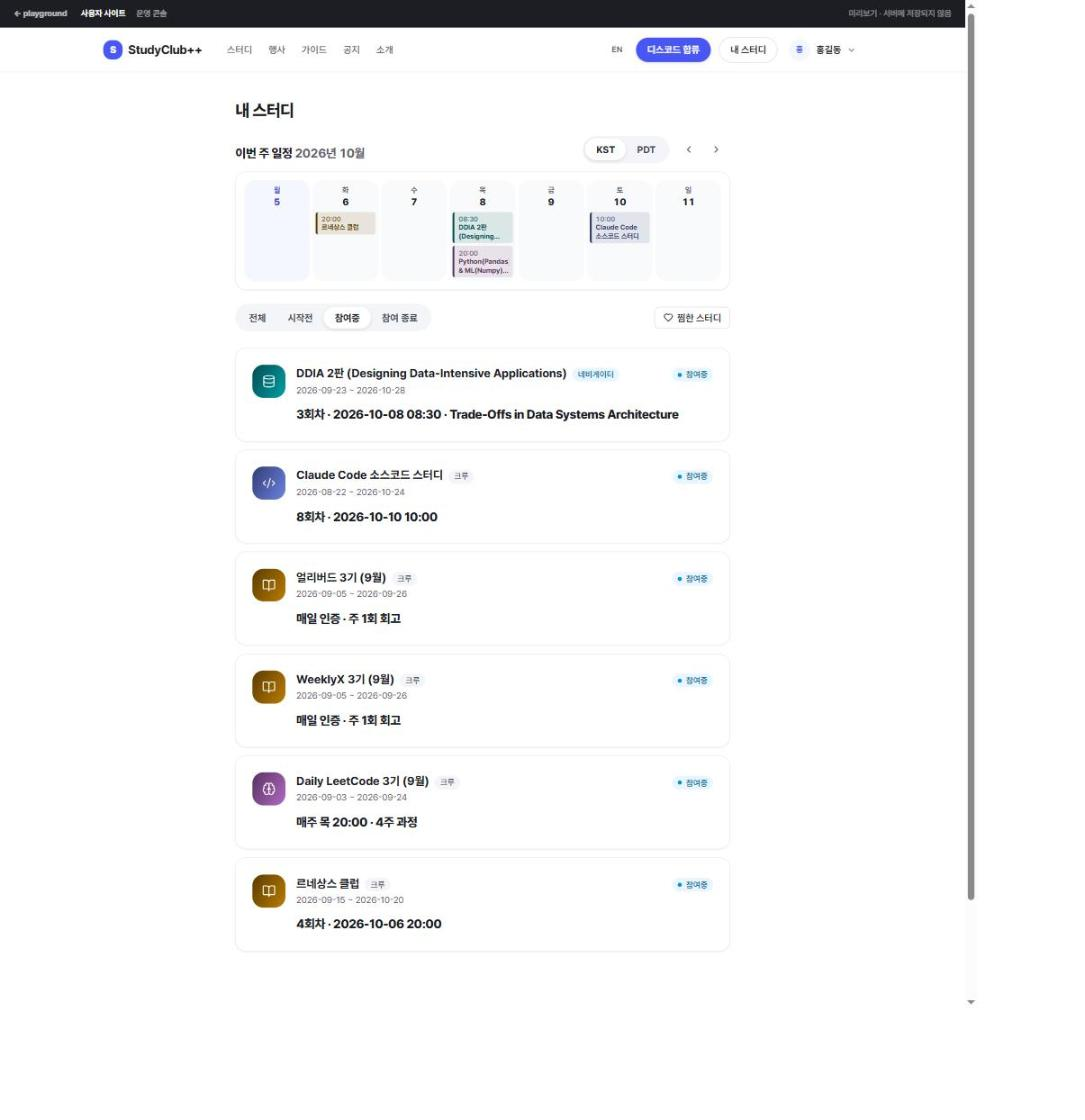
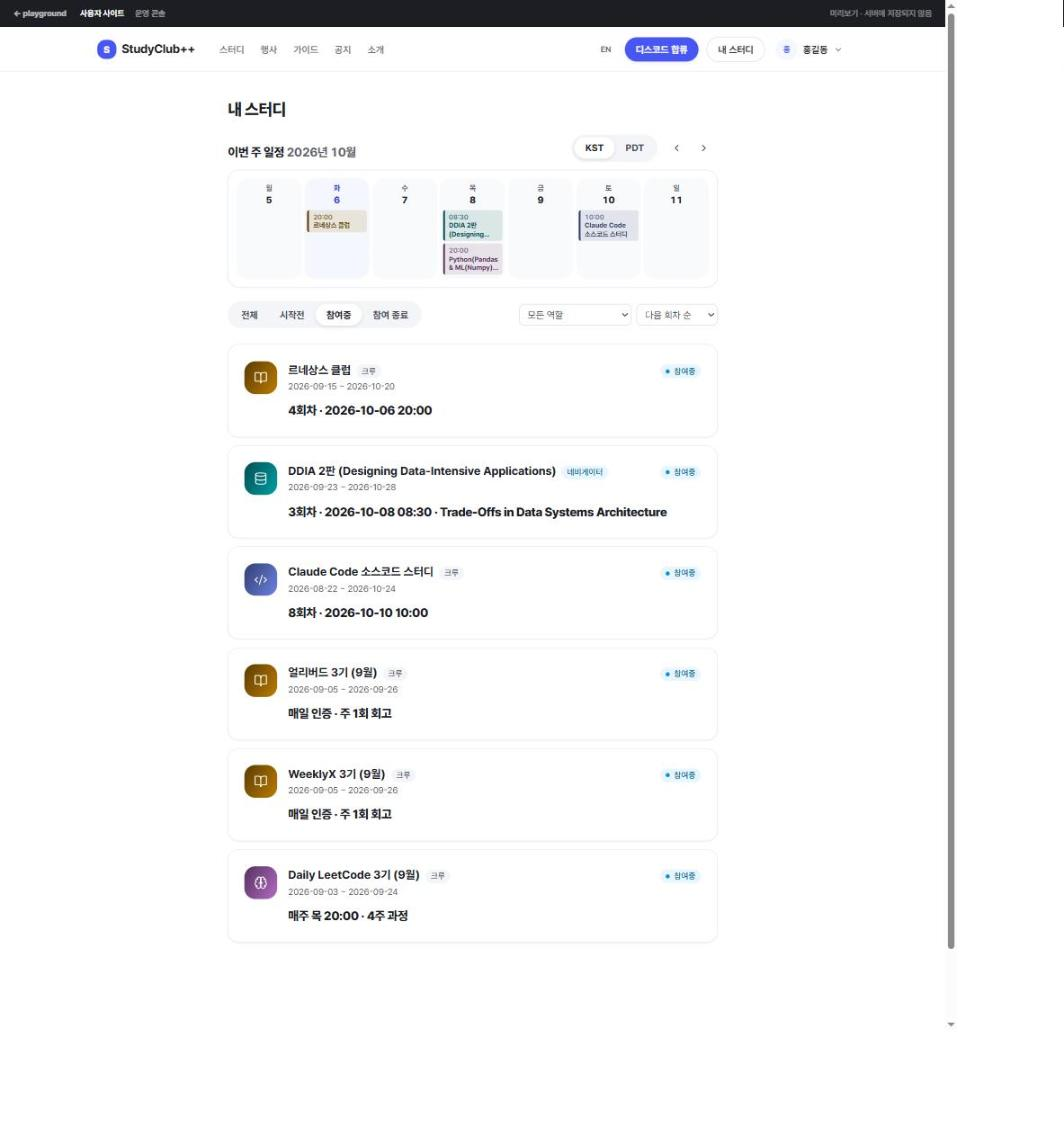
feat(playground): 스터디 일정 주소를 /my/joined/{id}/schedule 로, 역할 드롭다운, 캡처 갱신
- 라우트: /my/joined/{id}/manage/{schedule,attendance} → /my/joined/{id}/schedule (일정) · /schedule/attendance (출석부). 링크·옛 출석 기록 주소·명세 경로 갱신
- 내 스터디: 「내 담당만」 토글 대신 역할 드롭다운(모든 역할 · 운영 · 참여) — 정렬 옆, 운영하는 스터디가 있을 때만
- PRD 화면 캡처 3장 갱신(내 스터디 · 출석부 2장)

diff --git a/frontend/apps/playground/src/app/(proto)/proto/core/[locale]/my/joined/page.tsx b/frontend/apps/playground/src/app/(proto)/proto/core/[locale]/my/joined/page.tsx
@@ -80,6 +80,15 @@ const SORTS: { key: SortKey; label: string }[] = [
 
 const defaultSortOf = (filter: Filter): SortKey => (filter === 'ended' ? 'end' : 'next');
 
+/** 역할로 거르기 — 운영 = 캡틴(만든 캡틴)·네비게이터, 참여 = 크루. */
+type RoleFilter = 'all' | 'manage' | 'join';
+
+const ROLE_FILTERS: { key: RoleFilter; label: string }[] = [
+  { key: 'all', label: '모든 역할' },
+  { key: 'manage', label: '운영 (캡틴·네비게이터)' },
+  { key: 'join', label: '참여 (크루)' },
+];
+
 /** 내가 캡틴(그 스터디를 만든 캡틴)이나 네비게이터로 맡은 스터디. */
 const isMine = (study: Study) => manageAccessOf(study.id) !== undefined;
 
@@ -93,11 +102,13 @@ function studiesIn(
   mine: Study[],
   filter: Filter,
   sort: SortKey,
-  mineOnly: boolean,
+  role: RoleFilter,
   wallTz: WallTz,
   locale: Locale,
 ): Study[] {
-  const list = mine.filter((s) => filter === 'all' || lifeStatus(s) === filter).filter((s) => !mineOnly || isMine(s));
+  const list = mine
+    .filter((s) => filter === 'all' || lifeStatus(s) === filter)
+    .filter((s) => role === 'all' || (role === 'manage') === isMine(s));
   // 다음 회차가 없는 스터디(참여 종료 등)는 다음 회차 순에서 맨 뒤로 간다.
   const nextAt = (s: Study) => {
     const m = upcomingMeeting(s, wallTz);
@@ -123,7 +134,7 @@ function weekRangeLabel(days: WeekDay[]): string {
 
 /** 내 스터디에서 들어가는 스터디 일정. 주소 값은 study_id(STUDY.ID). */
 function schedulePath(locale: Locale, study: Study): string {
-  return `/proto/core/${locale}/my/joined/${study.study_id}/manage/schedule`;
+  return `/proto/core/${locale}/my/joined/${study.study_id}/schedule`;
 }
 
 function weekChip(category: string | undefined): { accent: string; tint: number } {
@@ -285,8 +296,7 @@ export default function MyJoinedPage() {
   const [mineIds, setMineIds] = useState<string[]>([]);
   const [filter, setFilter] = useState<Filter>('active');
   const [sort, setSort] = useState<SortKey>(defaultSortOf('active'));
-  /** 내 담당만 — 캡틴·네비게이터로 맡은 스터디만 남긴다. */
-  const [mineOnly, setMineOnly] = useState(false);
+  const [role, setRole] = useState<RoleFilter>('all');
   const [page, setPage] = useState(1);
   const [wallTz, setWallTz] = useState<WallTz>('KST');
   const [weekStart, setWeekStart] = useState(() => mondayOf(ymdInTz(new Date(), 'KST')));
@@ -318,10 +328,10 @@ export default function MyJoinedPage() {
   const thisWeek = weekStart === mondayOf(ymdInTz(new Date(), wallTz));
 
   const shown = useMemo(
-    () => studiesIn(mine, filter, sort, mineOnly, wallTz, locale),
-    [filter, mine, sort, mineOnly, wallTz, locale],
+    () => studiesIn(mine, filter, sort, role, wallTz, locale),
+    [filter, mine, sort, role, wallTz, locale],
   );
-  // 맡은 스터디가 하나도 없으면(대부분의 크루) 토글을 두지 않는다 — 눌러도 빈 목록뿐이다.
+  // 맡은 스터디가 하나도 없으면(대부분의 크루) 역할 거르기를 두지 않는다 — 어느 값이든 같은 목록이다.
   const hasMine = mine.some(isMine);
 
   const pages = Math.max(1, Math.ceil(shown.length / PAGE_SIZE));
@@ -343,9 +353,12 @@ export default function MyJoinedPage() {
     return <div className='px-6 py-16 text-center text-sm text-fg-secondary'>불러오는 중…</div>;
   }
 
-  const empty = mineOnly
-    ? { title: '맡은 스터디가 없습니다', description: '이 탭에는 캡틴이나 네비게이터로 맡은 스터디가 없습니다.' }
-    : EMPTY[filter];
+  const empty =
+    role === 'manage'
+      ? { title: '운영하는 스터디가 없습니다', description: '이 탭에는 캡틴이나 네비게이터로 맡은 스터디가 없습니다.' }
+      : role === 'join'
+        ? { title: '크루로 참여한 스터디가 없습니다', description: '이 탭에는 크루로 참여한 스터디가 없습니다.' }
+        : EMPTY[filter];
 
   return (
     <div className='mx-auto max-w-3xl px-6 pb-16 pt-10'>
@@ -370,23 +383,22 @@ export default function MyJoinedPage() {
         <SegmentTabs anno='2' value={filter} options={FILTERS} onChange={changeFilter} />
         <div className='ml-auto flex flex-wrap items-center gap-2'>
           {hasMine && (
-            <button
-              type='button'
+            <select
               data-anno='2-2'
-              aria-pressed={mineOnly}
-              onClick={() => {
-                setMineOnly((v) => !v);
+              aria-label='역할'
+              value={role}
+              onChange={(ev) => {
+                setRole(ev.target.value as RoleFilter);
                 setPage(1);
               }}
-              className={cx(
-                'h-8 rounded-pill border px-3 text-sm font-semibold transition-colors',
-                mineOnly
-                  ? 'border-brand bg-brand-subtle text-brand'
-                  : 'border-border-strong text-fg-secondary hover:bg-surface-2',
-              )}
+              className='h-8 rounded-control border border-border-strong bg-bg px-2 text-sm text-fg-secondary'
             >
-              내 담당만
-            </button>
+              {ROLE_FILTERS.map((o) => (
+                <option key={o.key} value={o.key}>
+                  {o.label}
+                </option>
+              ))}
+            </select>
           )}
           <select
             data-anno='2-3'

diff --git a/frontend/apps/playground/src/app/(proto)/proto/core/[locale]/my/joined/spec.ts b/frontend/apps/playground/src/app/(proto)/proto/core/[locale]/my/joined/spec.ts
@@ -78,15 +78,15 @@ export const SPEC: ScreenSpec = {
     },
     {
       n: '2-2',
-      title: '내 담당만',
-      display: ['참여 상태 탭 줄 오른쪽 토글. 켜지면 포인트 색'],
-      behavior: ['켜면 캡틴(만든 캡틴)·네비게이터로 맡은 스터디만 남긴다. 참여 상태 탭과 함께 걸린다'],
+      title: '역할',
+      display: ['드롭다운 「모든 역할 · 운영 (캡틴·네비게이터) · 참여 (크루)」. 처음 값 모든 역할'],
+      behavior: ['고르면 그 역할의 스터디만 남긴다. 참여 상태 탭과 함께 걸린다'],
       policy: [
-        '맡은 스터디가 하나도 없으면 두지 않는다',
-        '정렬 앞세우기가 아니라 거르기 — 「어떤 스터디」와 「어떤 순서」를 섞지 않는다',
-        '결과가 없으면 「맡은 스터디가 없습니다」',
+        '운영 = 그 스터디를 만든 캡틴 또는 네비게이터. 참여 = 크루',
+        '운영하는 스터디가 하나도 없으면 두지 않는다 — 어느 값이든 같은 목록이다',
+        '정렬 앞세우기가 아니라 거르기 — 정렬(2-3)과 같은 모양으로 나란히',
       ],
-      when: '맡은 스터디가 하나 이상일 때',
+      when: '운영하는 스터디가 하나 이상일 때',
     },
     {
       n: '2-3',
@@ -182,7 +182,7 @@ export const SPEC: ScreenSpec = {
 };
 
 /**
- * 스터디별 내 역할 — 카드 제목 옆 배지. 일정 · 출석부 화면 명세는 `[id]/manage/spec.ts`.
+ * 스터디별 내 역할 — 카드 제목 옆 배지. 일정 · 출석부 화면 명세는 `[id]/schedule/spec.ts`.
  */
 export const MEETING_SPEC: ScreenSpec = {
   screen: '내 스터디',

diff --git a/frontend/apps/playground/src/app/(proto)/proto/core/[locale]/my/joined/[id]/attendance/page.tsx b/frontend/apps/playground/src/app/(proto)/proto/core/[locale]/my/joined/[id]/attendance/page.tsx
@@ -5,7 +5,7 @@ import { useEffect } from 'react';
 
 /**
  * 옛 출석 기록 주소. 출석 기록은 스터디 일정의 출석부 탭으로 옮겼다 — 그리로 보낸다.
- * 경로 값은 study_id 다 — 같은 자리의 스터디 일정(`[id]/manage`)과 맞춘다.
+ * 경로 값은 study_id 다 — 같은 자리의 스터디 일정(`[id]/schedule`)과 맞춘다.
  */
 export default function AttendanceRedirectPage() {
   const params = useParams();
@@ -14,7 +14,7 @@ export default function AttendanceRedirectPage() {
   const id = typeof params?.id === 'string' ? params.id : '';
 
   useEffect(() => {
-    router.replace(id ? `/proto/core/${locale}/my/joined/${id}/manage/attendance` : `/proto/core/${locale}/my/joined`);
+    router.replace(id ? `/proto/core/${locale}/my/joined/${id}/schedule/attendance` : `/proto/core/${locale}/my/joined`);
   }, [id, locale, router]);
 
   return <div className='px-6 py-16 text-center text-sm text-fg-secondary'>불러오는 중…</div>;

diff --git a/frontend/apps/playground/src/proto/core/components/StudyManageShell.tsx b/frontend/apps/playground/src/proto/core/components/StudyManageShell.tsx
@@ -49,7 +49,7 @@ export function StudyManageShell({ children }: { children: ReactNode }) {
   const pathname = usePathname();
   const locale = (params?.locale as string) ?? 'ko';
   const id = typeof params?.id === 'string' ? params.id : '';
-  const base = `/proto/core/${locale}/my/joined/${id}/manage`;
+  const base = `/proto/core/${locale}/my/joined/${id}/schedule`;
 
   const [ready, setReady] = useState(false);
   const [dirty, setDirty] = useState(false);
@@ -110,7 +110,7 @@ export function StudyManageShell({ children }: { children: ReactNode }) {
   const { role, group, canEdit } = access;
   const captain = role === 'captain';
   const tabs = [
-    { href: `${base}/schedule`, label: '일정' },
+    { href: base, label: '일정' },
     { href: `${base}/attendance`, label: '출석부' },
   ];
 

diff --git a/frontend/apps/playground/src/app/(proto)/proto/core/[locale]/my/joined/[id]/schedule/spec.ts b/frontend/apps/playground/src/app/(proto)/proto/core/[locale]/my/joined/[id]/schedule/spec.ts
@@ -37,7 +37,7 @@ export const MANAGE_SPEC: ScreenSpec = {
       n: '2',
       title: '탭 — 일정 / 출석부',
       display: ['선택된 탭에 밑줄'],
-      behavior: ['탭마다 주소가 다르다(…/manage/schedule · …/manage/attendance). 새로고침해도 그 탭에 머문다'],
+      behavior: ['탭마다 주소가 다르다(…/schedule · …/schedule/attendance). 새로고침해도 그 탭에 머문다'],
       policy: ['규칙은 탭이 아니라 탭 위 정보 카드(3)에 둔다 — 어느 탭을 보든 규칙이 함께 보인다'],
     },
     {

diff --git a/frontend/apps/playground/src/app/(proto)/proto/core/[locale]/my/joined/[id]/schedule/attendance/page.tsx b/frontend/apps/playground/src/app/(proto)/proto/core/[locale]/my/joined/[id]/schedule/attendance/page.tsx
@@ -44,7 +44,7 @@ export default function StudyManageAttendancePage() {
     return [m?.presenter1, m?.presenter2].filter((p): p is string => Boolean(p));
   };
   const notCounted = new Set(meetings.filter(isKickoff).map((m) => m.id));
-  const schedulePath = `/proto/core/${locale}/my/joined/${study.study_id}/manage/schedule`;
+  const schedulePath = `/proto/core/${locale}/my/joined/${study.study_id}/schedule`;
 
   async function save(next: AttendanceBook) {
     // TODO(api): POST /api/studies/{id}/groups/{groupId}/attendances — 바뀐 칸만 updates[] 로 한 번에.

diff --git a/frontend/apps/playground/src/app/(proto)/proto/core/[locale]/my/joined/[id]/schedule/page.tsx b/frontend/apps/playground/src/app/(proto)/proto/core/[locale]/my/joined/[id]/schedule/page.tsx
@@ -3,7 +3,7 @@
 import { ScheduleManager } from '@core/components/ScheduleManager';
 import { useManage } from '@core/components/StudyManageShell';
 
-import { MANAGE_SPEC, SCHEDULE_SPEC } from '../spec';
+import { MANAGE_SPEC, SCHEDULE_SPEC } from './spec';
 import { ScreenSpecRegistrar } from '@/proto/annotate';
 
 export default function StudyManageSchedulePage() {

diff --git a/planning/stories/crew-joined-studies/PRD.md b/planning/stories/crew-joined-studies/PRD.md
@@ -36,7 +36,7 @@ flowchart LR
 3. 카드마다 내 역할이 「캡틴」 · 「네비게이터」 · 「크루」 중 하나로 보임
 4. 카드나 주간 칸을 누르면 모집공고 상세가 아니라 그 스터디의 스터디 일정으로 감. 참여 중단 카드는 누를 수 없음
 5. 완주와 참여 중단이 같은 탭에 모이되, 카드에서 완주만 따로 구분됨
-6. 정렬(다음 회차 · 시작일 · 종료일 · 이름)을 고를 수 있고, 맡은 스터디가 있으면 「내 담당만」으로 거를 수 있음
+6. 정렬(다음 회차 · 시작일 · 종료일 · 이름)을 고를 수 있고, 운영하는 스터디가 있으면 역할(운영 · 참여)로 거를 수 있음
 
 ## 2. 화면명세
 
@@ -106,15 +106,16 @@ flowchart LR
 - **데이터**: `STUDY_PARTICIPANT.STATUS`, `STUDY_COHORT.START_DATE` · `END_DATE`
 - **작업**: 필터 탭
 
-### 2-2. 내 담당만
+### 2-2. 역할
 
-- **표시**: 참여 상태 탭 줄 오른쪽 토글 `내 담당만`. 켜지면 포인트 색
-- **동작**: 켜면 캡틴(그 스터디를 만든 캡틴)이나 네비게이터로 맡은 스터디만 남긴다. 참여 상태 탭과 함께 걸린다 (예: 참여중 + 내 담당만)
+- **표시**: 참여 상태 탭 줄 오른쪽 드롭다운 `모든 역할` · `운영 (캡틴·네비게이터)` · `참여 (크루)`. 처음 값 `모든 역할`
+- **동작**: 고르면 그 역할의 스터디만 남기고 1페이지로 간다. 참여 상태 탭과 함께 걸린다 (예: 참여중 + 운영)
 - **정책**
-  - 맡은 스터디가 하나도 없으면 토글을 두지 않는다 — 대부분의 크루에게는 눌러도 빈 목록뿐이다
-  - 정렬 앞세우기가 아니라 거르기다 — 「어떤 스터디」와 「어떤 순서」를 섞지 않는다. 역할은 카드 배지(4-2-1)로도 보인다
-  - 켠 채 결과가 없으면 `맡은 스터디가 없습니다` · `이 탭에는 캡틴이나 네비게이터로 맡은 스터디가 없습니다.`
-- **조건**: 맡은 스터디가 하나 이상일 때
+  - 운영 = 그 스터디를 만든 캡틴 또는 네비게이터. 참여 = 크루
+  - 운영하는 스터디가 하나도 없으면 드롭다운을 두지 않는다 — 대부분의 크루에게는 어느 값이든 같은 목록이다
+  - 정렬 앞세우기가 아니라 거르기다 — 「어떤 스터디」와 「어떤 순서」를 섞지 않는다. 정렬(2-3)과 같은 모양으로 나란히 둔다
+  - 결과가 없으면 `운영하는 스터디가 없습니다` / `크루로 참여한 스터디가 없습니다`
+- **조건**: 운영하는 스터디가 하나 이상일 때
 
 ### 2-3. 정렬
 

diff --git a/planning/stories/navigator-register-sessions/PRD.md b/planning/stories/navigator-register-sessions/PRD.md
@@ -2,7 +2,7 @@
 
 기준 프로토타입: 스터디 일정 — 일정 · 출석부 (playground 사용자 사이트 · 내 스터디 → 스터디 일정)
 
-화면 캡처 (2026-10-05): [내 스터디](screens/1-my-studies.jpg) · [네비게이터 일정](screens/2-navigator-schedule.jpg) · [네비게이터 출석부](screens/3-navigator-attendance.jpg) · [크루 일정](screens/4-crew-schedule.jpg) · [크루 출석부](screens/5-crew-attendance.jpg)
+화면 캡처 (2026-10-06): [내 스터디](screens/1-my-studies.jpg) · [네비게이터 일정](screens/2-navigator-schedule.jpg) · [네비게이터 출석부](screens/3-navigator-attendance.jpg) · [크루 일정](screens/4-crew-schedule.jpg) · [크루 출석부](screens/5-crew-attendance.jpg)
 
 지금까지 스터디마다 구글 시트로 쓰던 출석부(스터디 시간 · 네비게이터 · 일정표 · 출석 체크 · 스터디 규칙)를 웹으로 옮긴다.
 일정을 고치는 사람은 캡틴·네비게이터이고, 보는 사람은 그 분반 참가자 전원이다.

diff --git a/specs/study-meeting/spec.md b/specs/study-meeting/spec.md
@@ -208,7 +208,7 @@ PRD 는 `SCHEDULED_AT` 경과만 말하지만, 디스코드 출석 체크가 예
 
 ### 프론트엔드 사용처
 
-- 프로토타입: `frontend/apps/playground/src/app/(proto)/proto/core/[locale]/my/joined/[id]/manage/schedule/page.tsx` (지금은 브라우저 저장)
+- 프로토타입: `frontend/apps/playground/src/app/(proto)/proto/core/[locale]/my/joined/[id]/schedule/page.tsx` (지금은 브라우저 저장)
 - core-front 스터디 일정 → 일정 탭 (미구현)
 
 ---
